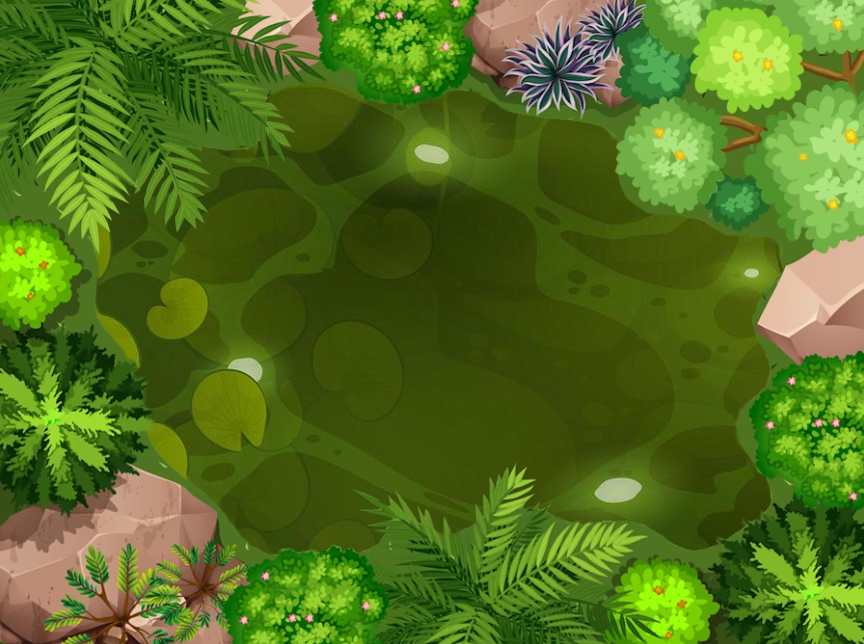
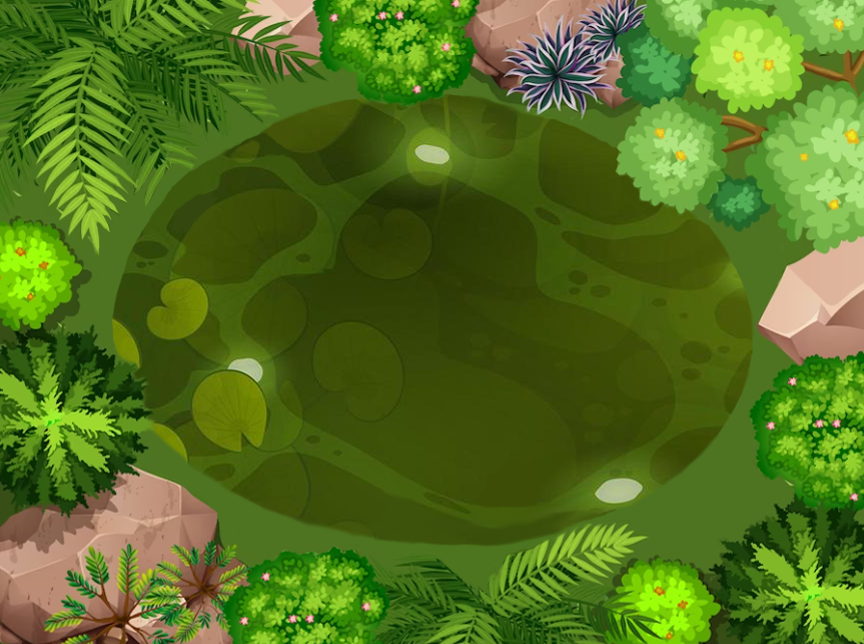
Set boundary for swamp

diff --git a/src/main/java/ca/bcit/comp2522/termproject/capy/controllers/KeyboardInputController.java b/src/main/java/ca/bcit/comp2522/termproject/capy/controllers/KeyboardInputController.java
@@ -10,6 +10,7 @@ import javafx.beans.property.SimpleBooleanProperty;
 import javafx.fxml.FXML;
 import javafx.scene.Scene;
 import javafx.scene.input.KeyCode;
+import javafx.scene.shape.Ellipse;
 
 /**
  * KeyboardInputController handles the keyboard input functionality.
@@ -33,6 +34,9 @@ public class KeyboardInputController {
     @FXML
     private Scene scene;
 
+    @FXML
+    private Ellipse border;
+
     /**
      * Move the character when specific key is pressed.
      */
@@ -40,16 +44,20 @@ public class KeyboardInputController {
         @Override
         public void handle(final long l) {
             if (wPressed.get()) {
-                character.move(Direction.UP);
+                // character.move(Direction.UP);
+                moveCharacter(character, Direction.UP, border);
             }
             if (sPressed.get()) {
-                character.move(Direction.DOWN);
+                // character.move(Direction.DOWN);
+                moveCharacter(character, Direction.DOWN, border);
             }
             if (aPressed.get()) {
-                character.move(Direction.LEFT);
+                // character.move(Direction.LEFT);
+                moveCharacter(character, Direction.LEFT, border);
             }
             if (dPressed.get()) {
-                character.move(Direction.RIGHT);
+                // character.move(Direction.RIGHT);
+                moveCharacter(character, Direction.RIGHT, border);
             }
         }
     };
@@ -60,9 +68,10 @@ public class KeyboardInputController {
      * @param player the character to set the movement on
      * @param newScene the scene to which the listeners are attached
      */
-    public void assignKeyboardInput(final Character player, final Scene newScene) {
+    public void assignKeyboardInput(final Character player, final Scene newScene, final Ellipse border) {
         this.character = player;
         this.scene = newScene;
+        this.border = border;
 
         setListeners();
 
@@ -113,5 +122,27 @@ public class KeyboardInputController {
                 dPressed.set(false);
             }
         });
+    }
+
+    private void moveCharacter(final Character character, final Direction direction, final Ellipse border) {
+        double currentX = character.getSprite().getLayoutX();
+        double currentY = character.getSprite().getLayoutY();
+
+        double newX = currentX;
+        double newY = currentY;
+
+        switch (direction) {
+            case UP -> newY = currentY - character.getMovementSpeed();
+            case DOWN -> newY = currentY + character.getMovementSpeed();
+            case LEFT -> newX = currentX - character.getMovementSpeed();
+            case RIGHT -> newX = currentX + character.getMovementSpeed();
+        }
+
+        // must subtract the border position, as the contains() method compares to the "local coordinate space",
+        // where its layoutX and layoutY are considered 0
+        if (border.contains(newX - border.getLayoutX(), newY - border.getLayoutY())) {
+            character.getSprite().setLayoutX(newX);
+            character.getSprite().setLayoutY(newY);
+        }
     }
 }

diff --git a/src/main/java/ca/bcit/comp2522/termproject/capy/models/Player.java b/src/main/java/ca/bcit/comp2522/termproject/capy/models/Player.java
@@ -15,18 +15,19 @@ public class Player extends Character {
      * The default amount of sugar cane points a player starts with.
      */
     public static final int DEFAULT_SUGAR_CANE_POINTS = 0;
+    public static final int DEFAULT_PLAYER_SPEED = 3;
+
     private int points;
 
     private Weapon weapon;
     private Armour armour;
-
 
     /**
      * Instantiate a Player object.
      * @param sprite the Image to use as the player's ImageView sprite
      */
     public Player(final Image sprite) {
-        super(sprite);
+        super(sprite, DEFAULT_PLAYER_SPEED);
 
         this.points = DEFAULT_SUGAR_CANE_POINTS;
     }
@@ -71,42 +72,5 @@ public class Player extends Character {
      */
     public void shoot() {
 
-    }
-
-    /**
-     * Move the character in any of the 4 directions.
-     * @param direction the direction to move the character
-     */
-    @Override
-    public void move(final Direction direction) {
-        switch (direction) {
-            case UP -> {
-                this.getSprite().setLayoutY(this.getSprite().getLayoutY() - this.getMovementSpeed());
-                if (this.getSprite().getLayoutY() < 0) {
-                    this.getSprite().setLayoutY(0);
-                }
-            }
-            case DOWN -> {
-                this.getSprite().setLayoutY(this.getSprite().getLayoutY() + this.getMovementSpeed());
-                final double calculatedDownLimit = Game.BACKGROUND_HEIGHT - this.getSprite().getImage().getHeight();
-                if (this.getSprite().getLayoutY() > calculatedDownLimit) {
-                    this.getSprite().setLayoutY(calculatedDownLimit);
-                }
-            }
-            case LEFT -> {
-                this.getSprite().setLayoutX(this.getSprite().getLayoutX() - this.getMovementSpeed());
-                if (this.getSprite().getLayoutX() < 0) {
-                    this.getSprite().setLayoutX(0);
-                }
-            }
-            case RIGHT -> {
-                this.getSprite().setLayoutX(this.getSprite().getLayoutX() + this.getMovementSpeed());
-                final double calculatedRightLimit = Game.BACKGROUND_WIDTH - this.getSprite().getImage().getWidth();
-                if (this.getSprite().getLayoutX() > calculatedRightLimit) {
-                    this.getSprite().setLayoutX(calculatedRightLimit);
-                }
-            }
-            default -> { }
-        }
     }
 }

diff --git a/src/main/java/ca/bcit/comp2522/termproject/capy/models/Character.java b/src/main/java/ca/bcit/comp2522/termproject/capy/models/Character.java
@@ -13,7 +13,7 @@ public abstract class Character {
     /**
      * The default movement speed of a character.
      */
-    public static final int DEFAULT_MOVEMENT_SPEED = 2;
+    public static final int DEFAULT_CHARACTER_SPEED = 2;
     /**
      * The default amount of hit points the character starts with.
      */
@@ -30,7 +30,7 @@ public abstract class Character {
 
     Character(final Image spriteImage) {
         this.hitPoints = DEFAULT_HIT_POINTS;
-        this.movementSpeed = DEFAULT_MOVEMENT_SPEED;
+        this.movementSpeed = DEFAULT_CHARACTER_SPEED;
         this.sprite = new ImageView(spriteImage);
     }
 
@@ -135,11 +135,4 @@ public abstract class Character {
     public boolean isAlive() {
         return hitPoints > 0;
     }
-
-    /**
-     * Move the ImageView sprite on the scene in the indicated direction. If the Character can move in more than one
-     * direction, then this method should handle all the possible directions.
-     * @param direction the direction to move the character
-     */
-    public abstract void move(Direction direction);
 }

diff --git a/src/main/java/ca/bcit/comp2522/termproject/capy/controllers/LevelController.java b/src/main/java/ca/bcit/comp2522/termproject/capy/controllers/LevelController.java
@@ -52,10 +52,14 @@ public class LevelController implements Initializable, SceneController {
     /**
      * Get the Text object that shows the players sugar cane points.
      * 
-     * @return the Text object that shows the players sugar can points
+     * @return the Text object that shows the players sugar cane points
      */
     public Text getSugarCanePoints() {
         return this.sugarCanePoints;
+    }
+
+    public Ellipse getSwampBorder() {
+        return this.swampBorder;
     }
 
     /**
@@ -66,9 +70,7 @@ public class LevelController implements Initializable, SceneController {
      * @param initialYPosition the initial y coordinate of the sprite on the scene
      */
     public void renderSprite(final ImageView sprite, final double initialXPosition, final double initialYPosition) {
-        if (this.pane.getChildren().contains(sprite)) {
-            System.out.println("Sprite already exists in pane");
-        } else {
+        if (!this.pane.getChildren().contains(sprite)) {
             this.pane.getChildren().add(sprite);
         }
 

diff --git a/src/main/java/ca/bcit/comp2522/termproject/capy/Game.java b/src/main/java/ca/bcit/comp2522/termproject/capy/Game.java
@@ -20,11 +20,11 @@ public class Game {
     /**
      * The background/window width of the game.
      */
-    public static final int BACKGROUND_WIDTH = 865;
+    public static final int BACKGROUND_WIDTH = 1160;
     /**
      * The background/window height of the game.
      */
-    public static final int BACKGROUND_HEIGHT = 645;
+    public static final int BACKGROUND_HEIGHT = 864;
 
     private static boolean hasSavedGame = false;
 
@@ -47,7 +47,9 @@ public class Game {
         this.currentLevel = this.levels.get(1);
 
         KeyboardInputController keyboardInputController = new KeyboardInputController();
-        keyboardInputController.assignKeyboardInput(this.player, this.currentLevel.getScene());
+        keyboardInputController.assignKeyboardInput(
+                this.player, this.currentLevel.getScene(), this.currentLevel.getSwampBoundary()
+        );
 
         MouseInputController rotationController = new MouseInputController();
         rotationController.makeCursorRotatable(this.player, this.currentLevel.getScene());

diff --git a/src/main/java/ca/bcit/comp2522/termproject/capy/models/Level.java b/src/main/java/ca/bcit/comp2522/termproject/capy/models/Level.java
@@ -9,6 +9,8 @@ import javafx.animation.AnimationTimer;
 
 import java.time.Duration;
 import java.time.LocalDateTime;
+import javafx.scene.shape.Ellipse;
+
 import java.util.ArrayList;
 
 /**
@@ -23,6 +25,7 @@ public class Level {
 
     private final Player player;
     private final ArrayList<Enemy> enemies;
+    private final Ellipse swampBoundary;
 
     private final double playerStartingXPosition = (Game.BACKGROUND_WIDTH / 2.0) - 20;
     private final double playerStartingYPosition = (Game.BACKGROUND_HEIGHT / 2.0) - 20;
@@ -46,6 +49,8 @@ public class Level {
         this.enemies = generateEnemies(numEnemies);
         initializeGameObjects();
 
+        this.swampBoundary = controller.getSwampBorder();
+
         setUpPlayer();
         controller.renderSprite(enemies.get(0).getSprite(), 0, 0);
 
@@ -68,6 +73,10 @@ public class Level {
      */
     public Scene getScene() {
         return this.scene;
+    }
+
+    public Ellipse getSwampBoundary() {
+        return this.swampBoundary;
     }
 
     /**

diff --git a/src/main/java/ca/bcit/comp2522/termproject/capy/models/Enemy.java b/src/main/java/ca/bcit/comp2522/termproject/capy/models/Enemy.java
@@ -147,9 +147,4 @@ public class Enemy extends Character {
     public int getAttackDamage() {
         return attackDamage;
     }
-
-    @Override
-    public void move(final Direction direction) {
-
-    }
 }
